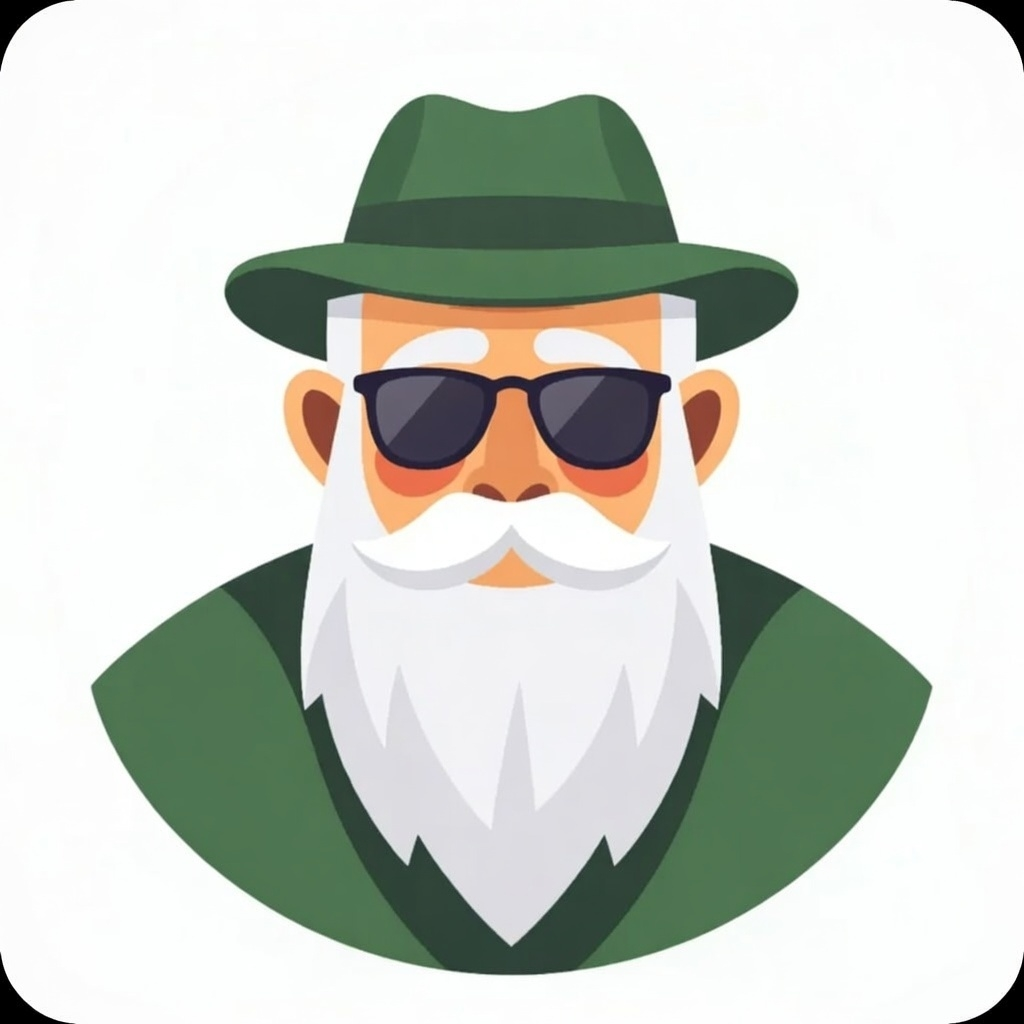
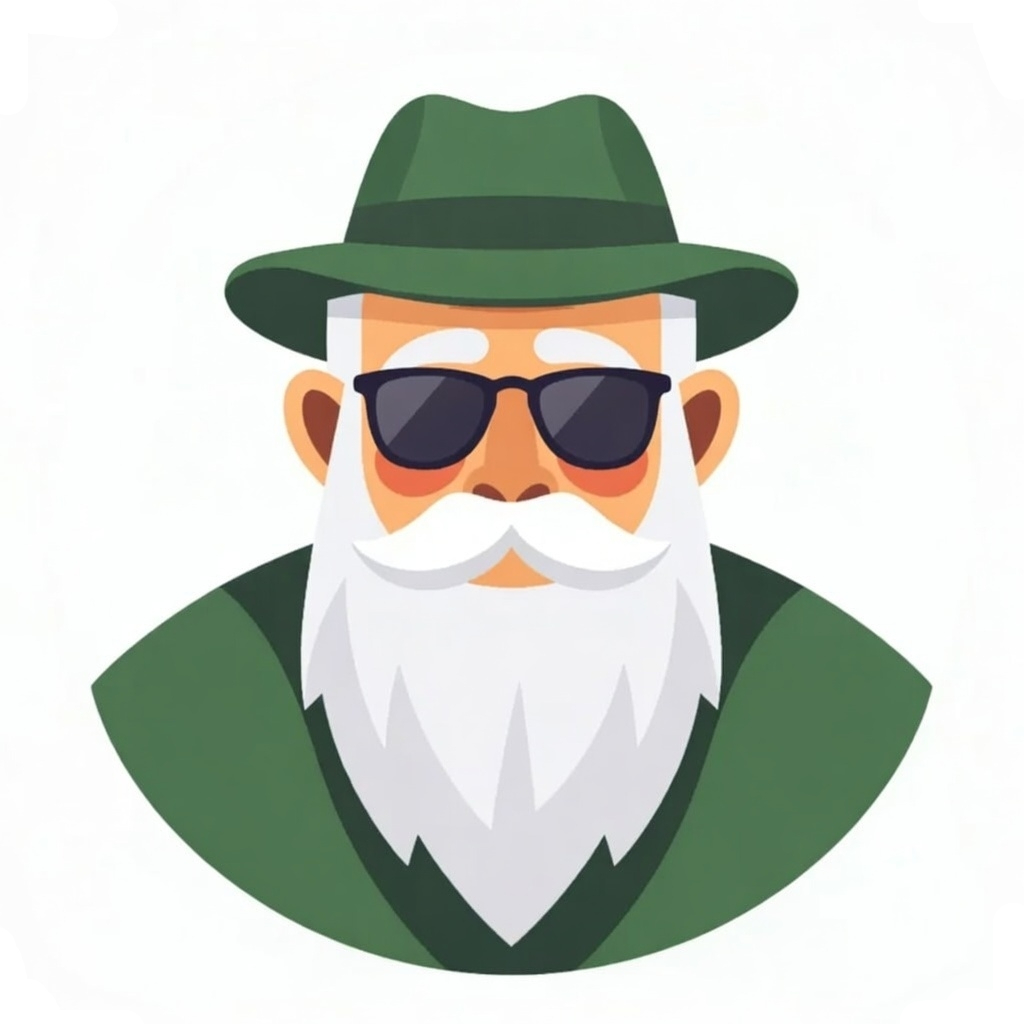
refactor: change classic card into noob card

diff --git a/src/app/home/page.tsx b/src/app/home/page.tsx
@@ -161,20 +161,20 @@ export default function HomePage() {
 
                     {/* Game Modes Grid */}
                     <div className="grid grid-cols-1 md:grid-cols-3 gap-8 max-w-5xl mx-auto w-full">
-                        {/* Classic Mode Card */}
+                        {/* Noob Mode Card */}
                         <Link
                             href="/game?level=easy"
                             className="bg-white border-4 border-[#8BC34A] rounded-3xl p-8 flex flex-col items-center gap-6 hover:scale-105 hover:shadow-2xl transition-all duration-300 shadow-lg group overflow-hidden"
                         >
                             <div className="w-60 h-60 flex items-center justify-center overflow-hidden">
                                 <img
-                                    src="/cba5a9e1-a9ed-4ab5-b530-a12a2a7511fb.png"
-                                    alt="Classic Mode"
+                                    src="/noob.jpg"
+                                    alt="Noob Mode"
                                     className="w-full h-full object-contain group-hover:scale-110 transition-transform duration-300"
                                 />
                             </div>
                             <h3 className="text-[#8BC34A] font-bold text-2xl group-hover:text-[#6B8E23] transition-colors">
-                                Classic
+                                Noob
                             </h3>
                         </Link>
 
